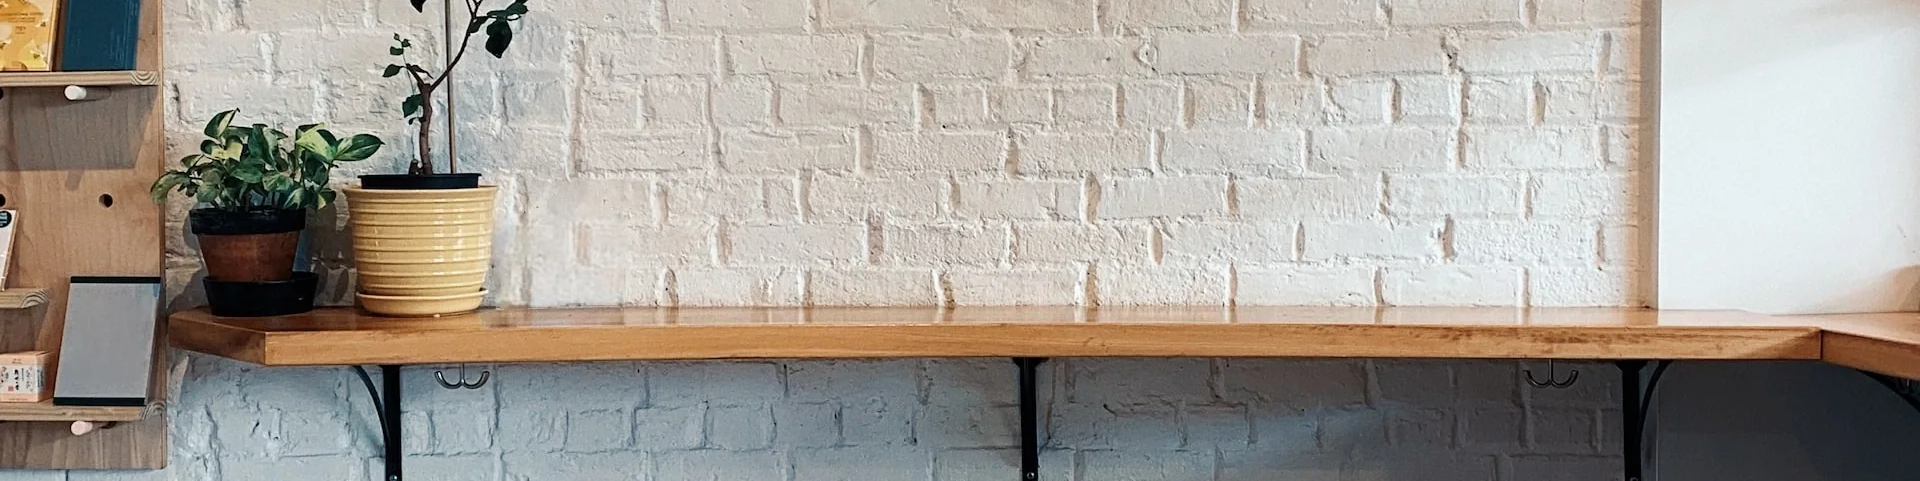
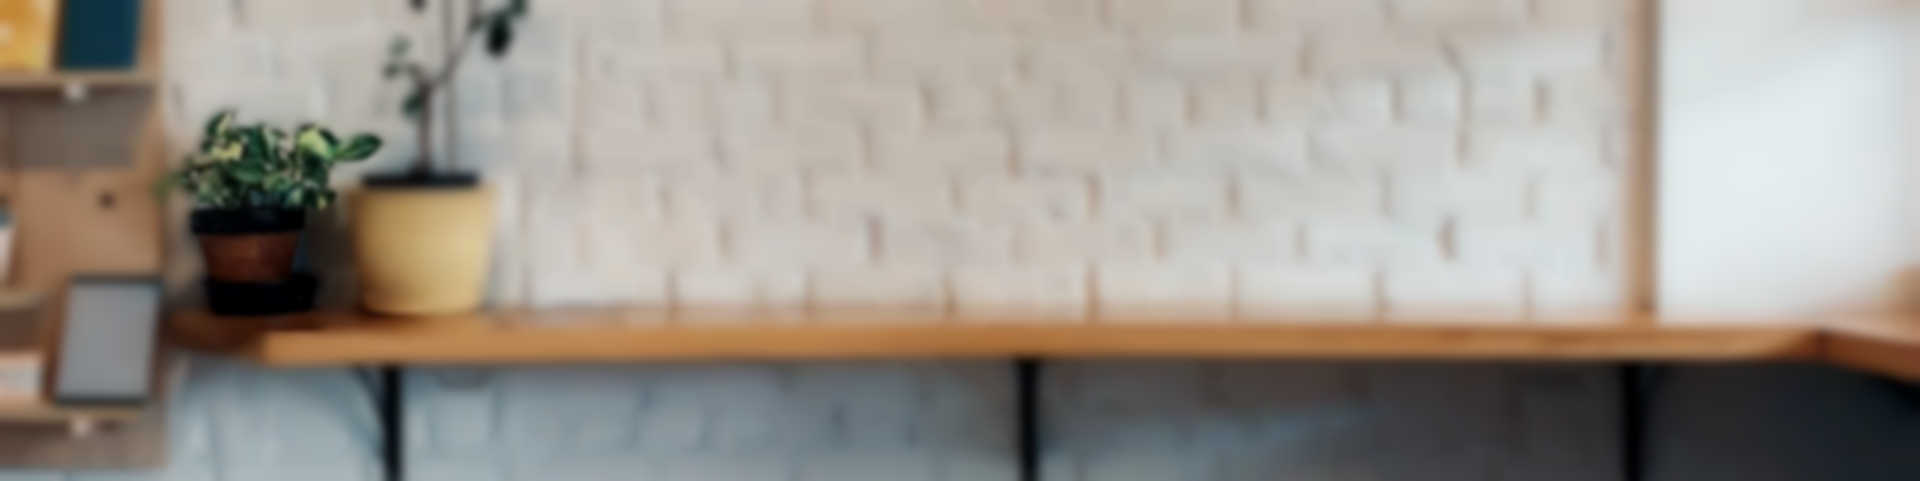
.

diff --git a/css/user.css b/css/user.css
@@ -13,8 +13,8 @@ body {
 
 .box {
     width: 100%;
-    height: 250px;
-    background-image: url("../img/banner_background.png");
+    height: 300px;
+    background-image: url("../img/banner_background.png"), linear-gradient(to bottom, rgba(255,255,255,0.5), rgba(255,255,255,0.5));
     background-size: cover;
     display: flex;
     justify-content: center;
@@ -22,7 +22,7 @@ body {
 }
 .box a {
     margin-right: 10px;
-    color: white;
+    color: black;
     text-decoration: none;
 }
 
